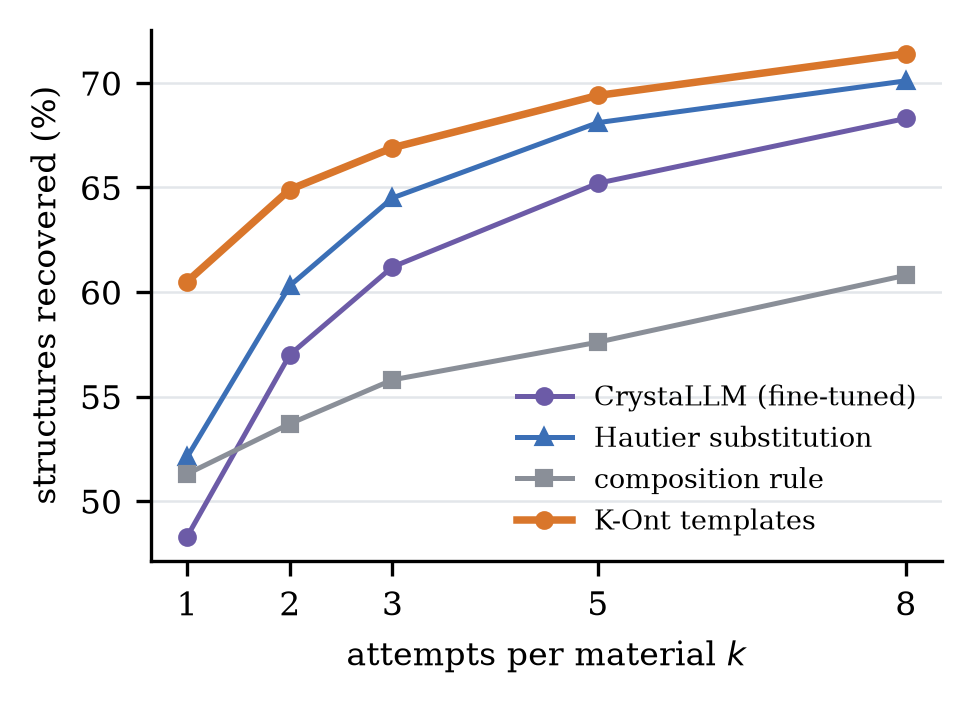
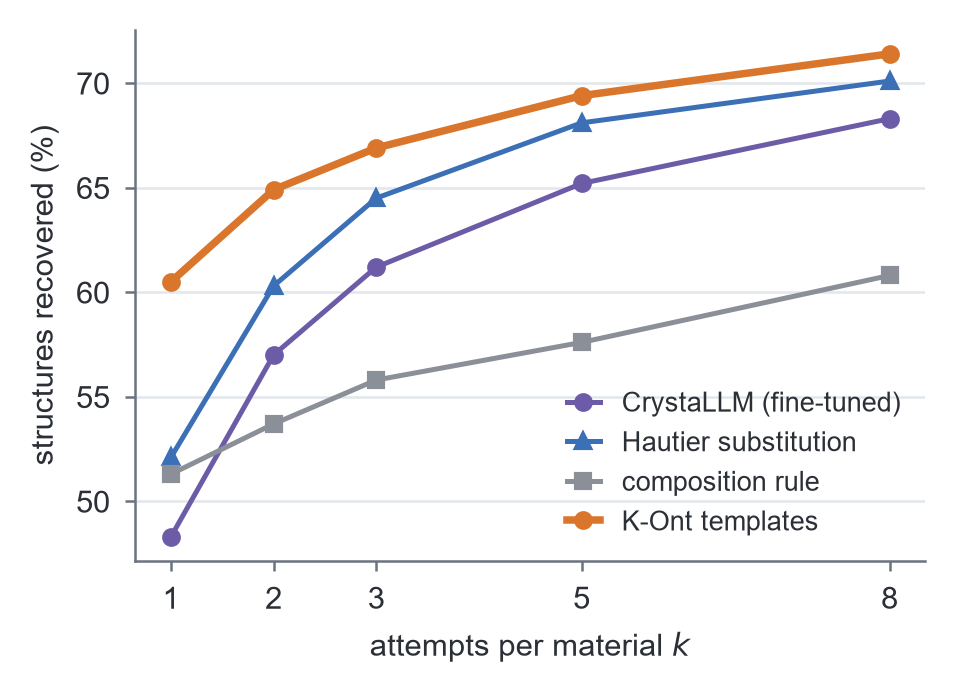
Paper figures: redesigned method diagram (three stages, Poincare-ball K-Ont, orthogonal arrows), sans-serif house style for all charts

diff --git a/abox/paper_build.py b/abox/paper_build.py
@@ -307,7 +307,12 @@ def figures():
     hz = json.load(open(os.path.join(HERE, "data", "crystallm", "kg_substitution.json")))["report"]["found"]
     haut = [v for k, v in hz.items() if k.startswith("Hautier") and "order" in k][0]
     ks = [1, 2, 3, 5, 8]
-    plt.rcParams.update({"font.family": "DejaVu Serif", "font.size": 8, "axes.spines.top": False, "axes.spines.right": False})
+    plt.rcParams.update({"font.family": "sans-serif", "font.sans-serif": ["Arial", "DejaVu Sans"], "mathtext.fontset": "dejavusans",
+                         "font.size": 7.5, "axes.spines.top": False, "axes.spines.right": False,
+                         "axes.edgecolor": "#6b7380", "axes.linewidth": 0.6, "axes.labelcolor": "#2b2f36",
+                         "xtick.color": "#6b7380", "ytick.color": "#6b7380", "xtick.labelcolor": "#2b2f36", "ytick.labelcolor": "#2b2f36",
+                         "xtick.major.width": 0.6, "ytick.major.width": 0.6, "xtick.major.size": 2.5, "ytick.major.size": 2.5,
+                         "legend.handlelength": 1.2, "legend.handleheight": 0.8, "text.color": "#2b2f36"})
     fig, ax = plt.subplots(figsize=(3.4, 2.3))
     for lab, ys, c, mk in (("CrystaLLM (fine-tuned)", [tg["CrystaLLM fine-tuned"][f"found@{k}"] for k in ks], "#6c5ba7", "o"),
                            ("Hautier substitution", [haut[f"@{k}"] for k in ks], "#3b6fb6", "^"),
@@ -352,27 +357,88 @@ def more_figures():
     D = os.path.join(HERE, "data", "crystallm")
     J = lambda n: json.load(open(os.path.join(D, n)))
 
-    # Fig: system overview (wide)
-    fig, ax = plt.subplots(figsize=(7.1, 1.9))
+    # Fig: system overview (wide) -- three stages, cards with a coloured accent, orthogonal arrows
+    from matplotlib.patches import Circle, Rectangle
+    INK, MUTED, LINE = "#2b2f36", "#6b7380", "#c3c9d1"
+    fig, ax = plt.subplots(figsize=(7.1, 2.56))
+    ax.set_xlim(0, 100)
+    ax.set_ylim(2.5, 36)
+    ax.set_aspect("equal")
     ax.axis("off")
-    ax.set_xlim(-0.1, 12.1)
-    ax.set_ylim(0, 3.2)
-    boxes = [(0.0, 1.15, 2.0, "Battery KG\n5,000 materials\n+ battery ontology", "#eef1f5"),
-             (2.5, 1.15, 2.2, "K-Ont\nhyperbolic encoder of\nconcepts + individuals", "#fbe9dc"),
-             (5.2, 2.05, 2.1, "rank KG frameworks\nfor the composition", "#fbe9dc"),
-             (7.75, 2.05, 2.0, "templates: place\nthe target's elements", "#eef1f5"),
-             (5.2, 0.15, 2.1, "CrystaLLM samples\n(language model)", "#ece9f5"),
-             (10.15, 1.15, 1.85, "CHGNet relaxation\nlowest energy\n= one answer", "#e6f2ec")]
-    for x, y, w, t, c in boxes:
-        ax.add_patch(FancyBboxPatch((x, y), w, 0.95, boxstyle="round,pad=0.02,rounding_size=0.08", fc=c, ec="#9aa3ad", lw=0.8))
-        ax.text(x + w / 2, y + 0.475, t, ha="center", va="center", fontsize=5.8)
-    arr = dict(arrowstyle="->", color="#5b6472", lw=0.9)
-    for a_, b_ in (((2.0, 1.62), (2.5, 1.62)), ((4.7, 1.85), (5.2, 2.35)), ((7.3, 2.52), (7.75, 2.52)),
-                   ((9.75, 2.35), (10.15, 1.9)), ((7.3, 0.62), (10.15, 1.35))):
-        ax.annotate("", b_, a_, arrowprops=arr)
-    ax.text(5.2, 3.05, "input: composition (formula + cell) of a new material", fontsize=6.2, style="italic", color="#5b6472")
-    ax.annotate("", (5.6, 1.12), (5.6, 2.03), arrowprops=dict(arrowstyle="<-", color="#9aa3ad", lw=0.6, ls="--"))
-    ax.text(5.75, 1.55, "same composition", fontsize=5.6, color="#9aa3ad")
+
+    def panel(x0, x1, n, title):
+        ax.add_patch(FancyBboxPatch((x0, 3.5), x1 - x0, 27.5, boxstyle="round,pad=0,rounding_size=1.2", fc="#f5f6f8", ec="none"))
+        ax.add_patch(Circle((x0 + 1.6, 33.4), 1.15, fc=INK, ec="none"))
+        ax.text(x0 + 1.6, 33.35, str(n), ha="center", va="center", color="white", fontsize=5.8, fontweight="bold")
+        ax.text(x0 + 3.4, 33.4, title, ha="left", va="center", fontsize=6.6, fontweight="bold", color=INK)
+
+    def card(x, y, w, h, title, sub, accent):
+        ax.add_patch(FancyBboxPatch((x, y), w, h, boxstyle="round,pad=0,rounding_size=0.7", fc="white", ec=LINE, lw=0.6))
+        ax.add_patch(Rectangle((x, y + 0.6), 0.75, h - 1.2, fc=accent, ec="none"))
+        fit(ax.text(x + 1.9, y + h * 0.64, title, ha="left", va="center", fontsize=5.6, fontweight="bold", color=INK), w - 2.6)
+        fit(ax.text(x + 1.9, y + h * 0.30, sub, ha="left", va="center", fontsize=4.8, color=MUTED), w - 2.6)
+
+    def fit(t, width):  # shrink a label until it fits its card (data units)
+        rd = fig.canvas.get_renderer()
+        while True:
+            bb = t.get_window_extent(rd).transformed(ax.transData.inverted())
+            if bb.width <= width or t.get_fontsize() <= 4.2:
+                return
+            t.set_fontsize(t.get_fontsize() - 0.1)
+
+    def arrow(*pts, color=INK, ls="-"):
+        for (x0, y0), (x1, y1) in zip(pts[:-2], pts[1:-1]):
+            ax.plot([x0, x1], [y0, y1], color=color, lw=0.8, ls=ls, solid_capstyle="butt")
+        ax.annotate("", pts[-1], pts[-2], arrowprops=dict(arrowstyle="-|>", mutation_scale=6.5, color=color, lw=0.8, ls=ls,
+                                                          shrinkA=0, shrinkB=0))
+
+    panel(1, 31, 1, "Knowledge encoding (offline)")
+    panel(33, 80, 2, "Candidate generation (per query)")
+    panel(81.5, 99.5, 3, "Selection")
+
+    # stage 1: ontology + KG -> K-Ont (Poincare ball with an embedded hierarchy)
+    card(2.5, 19.5, 15.5, 7, "Battery ontology", "TBox: concepts, axioms", BLUE)
+    card(2.5, 6, 15.5, 7, "Battery KG", "ABox: 5,000 materials", BLUE)
+    cx, cy, r = 25, 16.25, 4.0
+    ax.add_patch(Circle((cx, cy), r, fc="#fdf1e7", ec=ORANGE, lw=0.9))
+    import math
+    for k, ang in enumerate((90, 210, 330)):
+        x1, y1 = cx + 1.8 * math.cos(math.radians(ang)), cy + 1.8 * math.sin(math.radians(ang))
+        ax.plot([cx, x1], [cy, y1], color=ORANGE, lw=0.6, alpha=0.8)
+        for d in (-24, 24):
+            x2, y2 = cx + 3.1 * math.cos(math.radians(ang + d)), cy + 3.1 * math.sin(math.radians(ang + d))
+            ax.plot([x1, x2], [y1, y2], color=ORANGE, lw=0.5, alpha=0.7)
+            ax.add_patch(Circle((x2, y2), 0.32, fc=ORANGE, ec="none", alpha=0.75))
+        ax.add_patch(Circle((x1, y1), 0.45, fc=ORANGE, ec="none"))
+    ax.add_patch(Circle((cx, cy), 0.6, fc="#a8541a", ec="none"))
+    ax.text(cx, 9.4, "K-Ont encoder", ha="center", va="center", fontsize=5.6, fontweight="bold", color=INK)
+    ax.text(cx, 7.5, "Poincaré ball", ha="center", va="center", fontsize=4.8, color=MUTED)
+    for yy in (23, 9.5):
+        dx, dy = 18.1 - cx, yy - cy
+        n = math.hypot(dx, dy)
+        arrow((18.1, yy), (cx + dx / n * (r + 0.3), cy + dy / n * (r + 0.3)))
+
+    # stage 2: query -> ranked KG frameworks -> templates ; query -> CrystaLLM
+    ax.add_patch(FancyBboxPatch((34, 12.75), 7.5, 8, boxstyle="round,pad=0,rounding_size=0.7", fc=INK, ec="none"))
+    ax.text(37.75, 18.6, "Query", ha="center", va="center", fontsize=5.6, fontweight="bold", color="white")
+    ax.text(37.75, 15.4, "composition\n+ cell", ha="center", va="center", fontsize=4.6, color="#d5d9df", linespacing=1.15)
+    card(44, 19.5, 16, 7, "Rank KG frameworks", "same anonymous formula", ORANGE)
+    card(62.5, 19.5, 16, 7, "Templates ×3", "elements substituted", ORANGE)
+    card(44, 6, 34.5, 7, "CrystaLLM samples ×5", "fine-tuned crystal language model (no K-Ont)", PURPLE)
+    ax.plot([41, 42.25], [16.75, 16.75], color=INK, lw=0.8)
+    ax.plot([42.25, 42.25], [9.5, 23], color=INK, lw=0.8)
+    arrow((42.25, 23), (44, 23))
+    arrow((42.25, 9.5), (44, 9.5))
+    arrow((60, 23), (62.5, 23))
+    arrow((cx, cy + r), (cx, 29), (52, 29), (52, 26.5), color=ORANGE)
+    ax.text(38.5, 29.6, "K-Ont similarity", ha="center", va="bottom", fontsize=4.8, color=ORANGE, style="italic")
+
+    # stage 3: CHGNet relaxation -> lowest energy
+    card(83, 19.5, 15, 7, "CHGNet relaxation", "all 8 candidates", GREEN)
+    card(83, 6, 15, 7, "Lowest energy", "one predicted structure", GREEN)
+    arrow((78.5, 24.5), (83, 24.5))
+    arrow((78.5, 9.5), (80.75, 9.5), (80.75, 21.5), (83, 21.5))
+    arrow((90.5, 19.5), (90.5, 13))
     _save(fig, "overview.png")
 
     # Fig: K-Ont knowledge (a) battery checks incl. ablation (b) GALEN
@@ -384,8 +450,8 @@ def more_figures():
             ("role, no label line (test)", "battery\nrole"), ("family, no label line (test)", "structure\nfamily"),
             ("TBox MRR", "hierarchy\n(TBox MRR)")]
     gr = json.load(open(os.path.join(HERE, "data", "ont_bench", "galen_results.json")))
-    gm = [("OnT-galen (published)", "OnT"), ("K-Ont v2 (Step 36)", "K-Ont"), ("K-Ont + retention (Step 43)", "+KG ret."),
-          ("K-Ont + retention incl. GALEN (Step 52)", "+GALEN ret."), ("K-Ont + GALEN + anchor retention (Step 52c)", "52c")]
+    gm = [("OnT-galen (published)", "OnT"), ("K-Ont v2 (Step 36)", "K-Ont"), ("K-Ont + retention (Step 43)", "+KG\nretention"),
+          ("K-Ont + retention incl. GALEN (Step 52)", "+GALEN\nretention"), ("K-Ont + GALEN + anchor retention (Step 52c)", "K-Ont-52c\n(one model)")]
     fig, (a1, a2) = plt.subplots(1, 2, figsize=(7.1, 2.2), gridspec_kw={"width_ratios": [1.45, 1]})
     w = 0.26
     for j, (name, c) in enumerate(zip(chk, (ORANGE, GREY, BLUE))):
@@ -396,17 +462,17 @@ def more_figures():
     a1.legend(frameon=False, fontsize=6.2, loc="lower left", ncol=3, bbox_to_anchor=(0, 1.0))
     a1.grid(axis="y", color="#e3e6ea", lw=0.6)
     a1.set_axisbelow(True)
-    a1.set_title("(a) battery ontology + KG", fontsize=7.5, loc="left", pad=14)
+    a1.set_title("(a) battery ontology + KG", fontsize=7.2, fontweight="bold", loc="left", pad=14)
     x = range(len(gm))
     pm = [gr[f"prediction | {k}"]["results"]["sentence_combined"]["MRR"] for k, _ in gm]
     im = [gr[f"inference | {k}"]["results"]["sentence_combined"]["MRR"] * 10 for k, _ in gm]
     a2.bar([i - 0.18 for i in x], pm, 0.34, color=PURPLE, label="prediction MRR")
     a2.bar([i + 0.18 for i in x], im, 0.34, color=GREEN, label="inference MRR ×10")
-    a2.set_xticks(list(x), [l for _, l in gm], fontsize=6.2, rotation=25, ha="right")
+    a2.set_xticks(list(x), [l for _, l in gm], fontsize=6.0)
     a2.legend(frameon=False, fontsize=6.2, loc="lower left", ncol=2, bbox_to_anchor=(0, 1.0))
     a2.grid(axis="y", color="#e3e6ea", lw=0.6)
     a2.set_axisbelow(True)
-    a2.set_title("(b) GALEN (OnT benchmark)", fontsize=7.5, loc="left", pad=14)
+    a2.set_title("(b) GALEN (OnT benchmark)", fontsize=7.2, fontweight="bold", loc="left", pad=14)
     fig.tight_layout()
     _save(fig, "kont_checks.png")
 
@@ -419,7 +485,7 @@ def more_figures():
            ps["3 templates + 5 CrystaLLM, lowest energy (pipeline)"], ps["oracle: any of 3 templates + 5 CrystaLLM"]],
           [PURPLE, ORANGE, ORANGE, "#c9ced6"], ylim=(50, 85))
     a1.set_ylabel("one answer right (%)")
-    a1.set_title("(a) one answer per material (CHGNet pick)", fontsize=7.5, loc="left")
+    a1.set_title("(a) one answer per material (CHGNet pick)", fontsize=7.2, fontweight="bold", loc="left")
     f5, fe = ext["found"]["K-Ont (52c) · 5,000 KG"], ext["found"]["K-Ont (52c) · extended KG"]
     xs = range(4)
     v5 = [f5["@1"], f5["@3"], f5["@8"], ext["5,000 KG"]["oracle_true_space_group"]]
@@ -433,7 +499,7 @@ def more_figures():
     a2.legend(frameon=False, fontsize=6.2, loc="upper left")
     a2.grid(axis="y", color="#e3e6ea", lw=0.6)
     a2.set_axisbelow(True)
-    a2.set_title("(b) a bigger KG (same K-Ont, 902 targets)", fontsize=7.5, loc="left")
+    a2.set_title("(b) a bigger KG (same K-Ont, 902 targets)", fontsize=7.2, fontweight="bold", loc="left")
     fig.tight_layout()
     _save(fig, "system.png")
 
@@ -471,6 +537,7 @@ def more_figures():
         ax.plot([f * 100 for f in fr], [lc["fractions"][str(f)][key]["template"] for f in fr], color=c, marker="o", ms=3, lw=1.6, label=lab)
     ax.set_xscale("log")
     ax.set_xticks([5, 10, 25, 50, 100], ["5%", "10%", "25%", "50%", "100%"])
+    ax.minorticks_off()
     ax.set_xlabel("retriever training data")
     ax.set_ylabel("template found@1 (%)")
     ax.legend(frameon=False, fontsize=6.4, loc="lower right")
